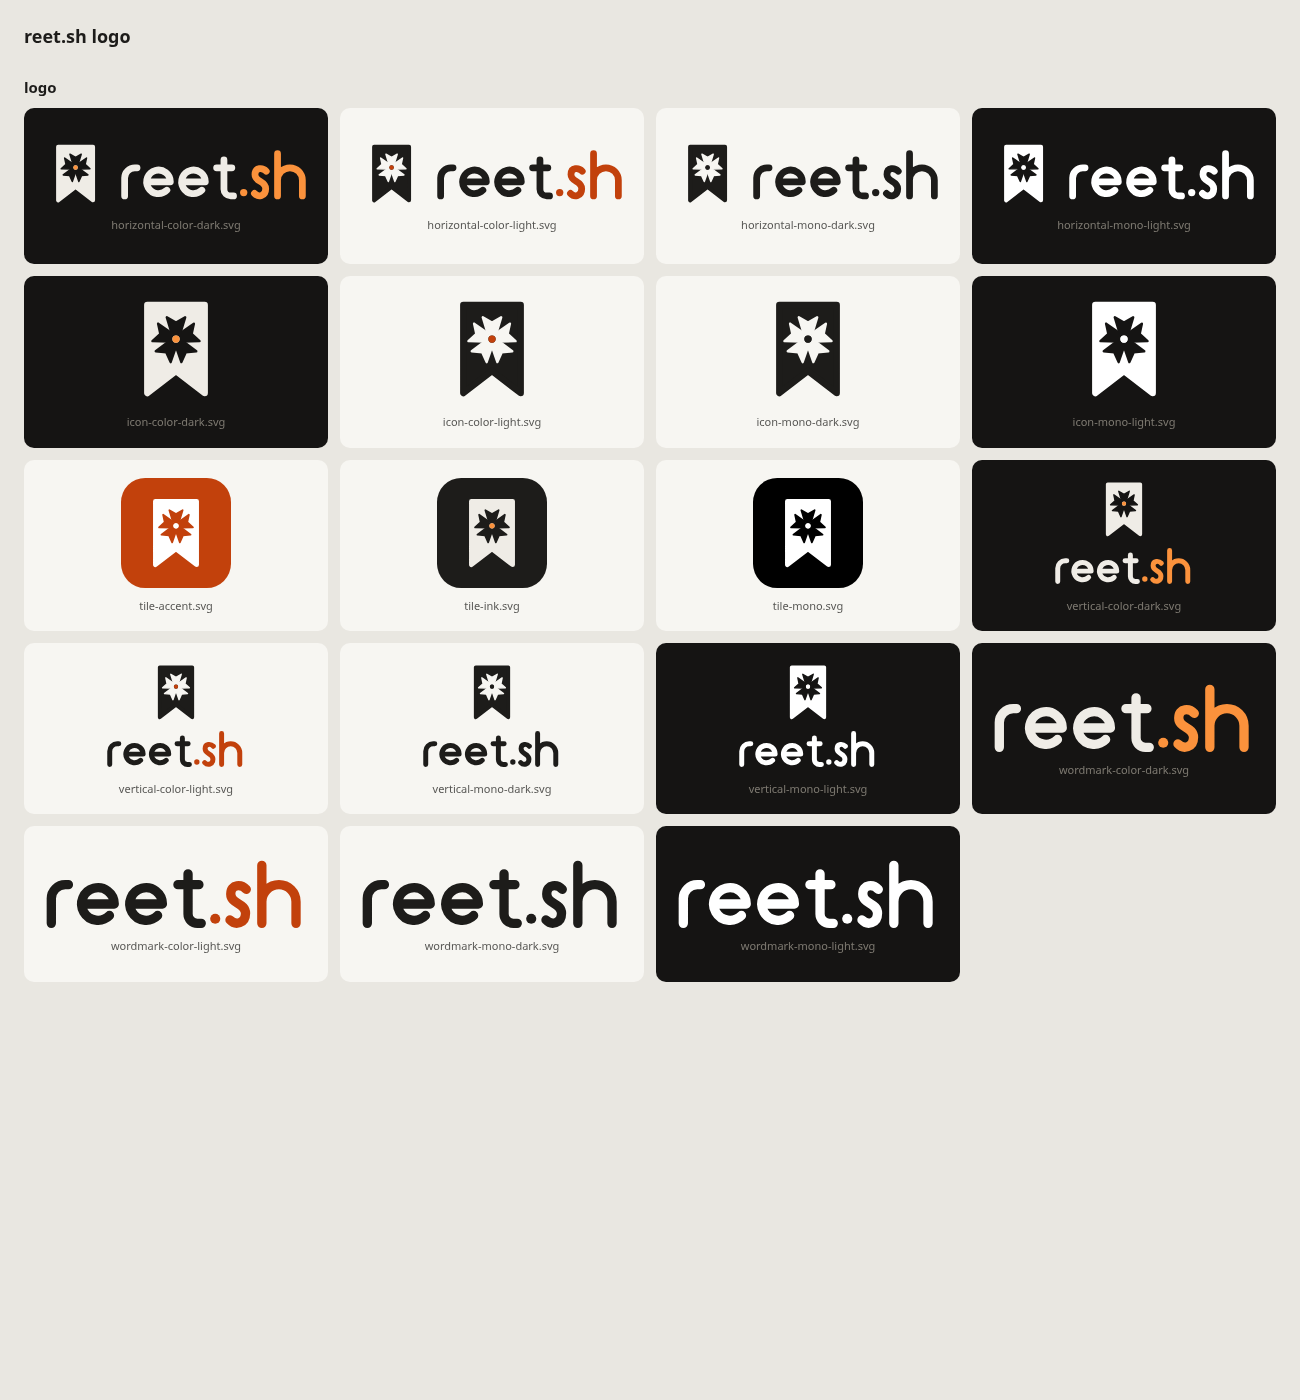
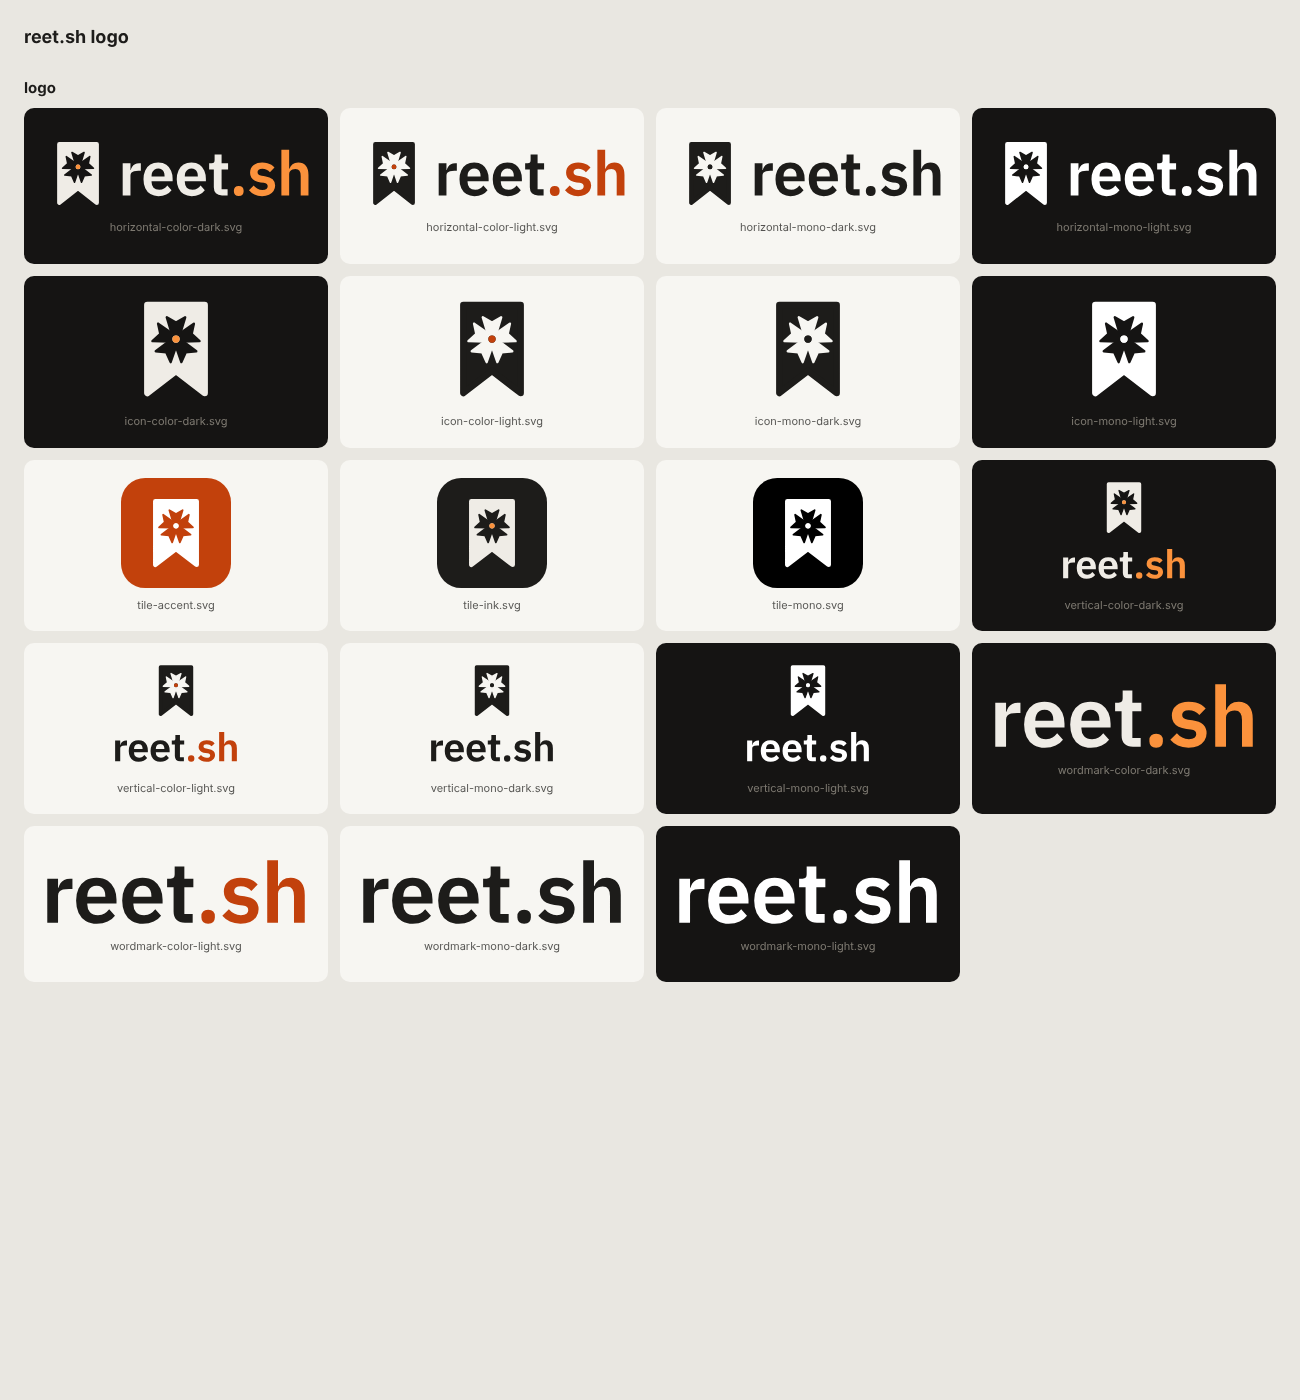
Set the wordmark in IBM Plex Sans SemiBold
The hand-drawn monoline letters shared no metrics: the r and s stood 15%
and 12% taller than the e, the s was 39% narrower, and every letter was
built by a different rule, so the logo read as several typefaces at
several sizes.

Outline the wordmark from IBM Plex Sans SemiBold, the app's UI typeface,
so every letter shares one x-height, stroke weight and rhythm. The
outlines are a generated block in brand/generate.py, written by the new
outline_wordmark.py, so generate.py still needs no font or packages.
generate.py now also rewrites the lockup inlined in the boot shell, which
was a hand-pasted copy that could drift.

Regenerated brand/logo, web/src/lib/logo.svg, the boot shell, the contact
sheet and the OG image. The lockup is narrower (372x100, was 399x100), so
at the unchanged CSS widths the logo renders about 7% larger.

Claude-Session: https://claude.ai/code/session_011MNNzrLzaF8D14bouNkubG

diff --git a/web/index.html b/web/index.html
@@ -267,9 +267,9 @@
     <div id="boot" aria-hidden="true">
       <div class="boot-bar">
         <div class="boot-bar-inner">
-          <span class="boot-brand"><svg xmlns="http://www.w3.org/2000/svg" viewBox="0 0 399 100">
+          <span class="boot-brand"><svg xmlns="http://www.w3.org/2000/svg" viewBox="0 0 372 100">
 <g id="icon"><mask id="rose-boot"><rect width="100" height="100" fill="#fff"/><g transform="translate(50,41) scale(0.44)"><path d="M-9,-12H9L19,-45L0,-34L-19,-45Z" transform="rotate(0)" fill="#000" stroke="#000" stroke-width="5" stroke-linejoin="round"/><path d="M-9,-12H9L19,-45L0,-34L-19,-45Z" transform="rotate(72)" fill="#000" stroke="#000" stroke-width="5" stroke-linejoin="round"/><path d="M-9,-12H9L19,-45L0,-34L-19,-45Z" transform="rotate(144)" fill="#000" stroke="#000" stroke-width="5" stroke-linejoin="round"/><path d="M-9,-12H9L19,-45L0,-34L-19,-45Z" transform="rotate(216)" fill="#000" stroke="#000" stroke-width="5" stroke-linejoin="round"/><path d="M-9,-12H9L19,-45L0,-34L-19,-45Z" transform="rotate(288)" fill="#000" stroke="#000" stroke-width="5" stroke-linejoin="round"/><circle r="13" fill="#000"/><circle r="7.5" fill="#fff"/></g></mask><path mask="url(#rose-boot)" fill="var(--boot-ink)" stroke="var(--boot-ink)" stroke-width="6" stroke-linejoin="round" d="M24,10H76V90L50,70L24,90Z"/><circle cx="50" cy="41" r="3.3" fill="var(--boot-accent)"/></g>
-<g transform="translate(118,20.5) scale(0.42)"><g id="wordmark" fill="none" stroke-width="24" stroke-linecap="round" stroke-linejoin="round"><path stroke="var(--boot-ink)" d="M12,150V86A36,36 0 0 1 48,50H56 M90,100H174A42,42 0 1 0 161.7,129.7 M214,100H298A42,42 0 1 0 285.7,129.7 M364,22V126A24,24 0 0 0 388,150H398 M338,50H392"/><circle fill="var(--boot-accent)" cx="434" cy="138" r="13"/><path stroke="var(--boot-accent)" d="M514,62C502,49 474,47 474,74C474,101 512,96 512,124C512,151 486,156 472,141 M554,0V150M554,94A44,44 0 0 1 642,94V150"/></g></g>
+<g transform="translate(112,17.63) scale(0.44)"><g id="wordmark"><path fill="var(--boot-ink)" d="M24.52 141.76H0V41.76H24.52V62.45H25.48Q26.82 57.09 29.98 52.39Q33.14 47.7 38.6 44.73Q44.06 41.76 51.92 41.76H57.28V64.94H49.62Q41.38 64.94 35.73 66.57Q30.08 68.2 27.3 71.55Q24.52 74.9 24.52 80.46Z M112.75 144.06Q98 144.06 87.46 137.64Q76.93 131.23 71.28 119.44Q65.62 107.66 65.62 91.57Q65.62 75.86 71.18 64.08Q76.74 52.3 87.08 45.88Q97.43 39.46 111.98 39.46Q127.69 39.46 137.75 46.36Q147.81 53.26 152.69 64.66Q157.58 76.05 157.58 89.85V97.89H91.1V100.38Q91.1 111.11 97.23 117.82Q103.36 124.52 115.43 124.52Q124.44 124.52 130.38 120.59Q136.31 116.67 140.91 110.92L154.13 125.67Q148 133.91 137.37 138.98Q126.74 144.06 112.75 144.06ZM112.37 57.85Q105.85 57.85 101.07 60.82Q96.28 63.79 93.69 69.06Q91.1 74.33 91.1 81.23V82.76H132.1V81.03Q132.1 73.95 129.8 68.87Q127.5 63.79 123.1 60.82Q118.69 57.85 112.37 57.85Z M217.65 144.06Q202.9 144.06 192.36 137.64Q181.82 131.23 176.17 119.44Q170.52 107.66 170.52 91.57Q170.52 75.86 176.08 64.08Q181.63 52.3 191.98 45.88Q202.32 39.46 216.88 39.46Q232.59 39.46 242.65 46.36Q252.7 53.26 257.59 64.66Q262.48 76.05 262.48 89.85V97.89H196V100.38Q196 111.11 202.13 117.82Q208.26 124.52 220.33 124.52Q229.33 124.52 235.27 120.59Q241.21 116.67 245.81 110.92L259.03 125.67Q252.9 133.91 242.26 138.98Q231.63 144.06 217.65 144.06ZM217.26 57.85Q210.75 57.85 205.96 60.82Q201.17 63.79 198.59 69.06Q196 74.33 196 81.23V82.76H237V81.03Q237 73.95 234.7 68.87Q232.4 63.79 227.99 60.82Q223.59 57.85 217.26 57.85Z M330.97 141.76H313.35Q300.7 141.76 294.1 135.15Q287.49 128.54 287.49 116.28V61.11H272.74V41.76H280.4Q285.95 41.76 287.97 39.18Q289.98 36.59 289.98 31.42V14.37H312.01V41.76H332.51V61.11H312.01V122.22H330.97Z"/><path fill="var(--boot-accent)" d="M366.14 143.87Q358.48 143.87 354.64 139.85Q350.81 135.82 350.81 129.89V126.44Q350.81 120.31 354.64 116.28Q358.48 112.26 366.14 112.26Q374.18 112.26 377.82 116.28Q381.46 120.31 381.46 126.44V129.89Q381.46 135.82 377.82 139.85Q374.18 143.87 366.14 143.87Z M439.81 144.06Q425.44 144.06 415.67 139.18Q405.9 134.29 398.43 125.67L413.37 111.11Q418.93 117.43 425.54 121.07Q432.15 124.71 440.77 124.71Q449.58 124.71 453.51 121.65Q457.43 118.58 457.43 113.22Q457.43 108.81 454.66 106.23Q451.88 103.64 445.17 102.68L435.21 101.34Q424.48 100 417.01 96.36Q409.54 92.72 405.71 86.4Q401.88 80.08 401.88 71.07Q401.88 56.51 412.32 47.99Q422.76 39.46 439.81 39.46Q449.58 39.46 456.57 41.28Q463.56 43.1 468.93 46.65Q474.29 50.19 478.89 55.17L464.52 69.54Q460.11 64.94 453.98 61.88Q447.85 58.81 440.57 58.81Q432.91 58.81 429.18 61.59Q425.44 64.37 425.44 69.16Q425.44 74.14 428.41 76.72Q431.38 79.31 438.47 80.46L448.62 81.8Q465.1 84.1 473.05 91.48Q481 98.85 481 111.3Q481 120.88 475.92 128.35Q470.84 135.82 461.55 139.94Q452.26 144.06 439.81 144.06Z M500.64 141.76V0H525.16V58.43H526.12Q529.19 50.38 535.8 44.92Q542.41 39.46 554.09 39.46Q569.42 39.46 577.75 49.71Q586.08 59.96 586.08 78.54V141.76H561.56V81.03Q561.56 70.5 557.73 65.04Q553.9 59.58 545.09 59.58Q540.11 59.58 535.51 61.4Q530.91 63.22 528.04 66.76Q525.16 70.31 525.16 75.67V141.76Z"/></g></g>
 </svg></span>
           <div class="boot-nav"><span class="boot-pill"></span><span class="boot-pill wide"></span></div>
         </div>

diff --git a/brand/generate.py b/brand/generate.py
@@ -10,10 +10,10 @@ accent dot at the centre.
 """
 from __future__ import annotations
 
-import math
+import re
 from pathlib import Path
 
-OUT = Path(__file__).resolve().parent / "logo"
+OUT =Path(__file__).resolve().parent / "logo"
 TITLE = "reet.sh"
 
 # Palette: matches web/src/App.svelte CSS variables.
@@ -27,61 +27,21 @@ SCHEMES = {
 }
 
 # ---------------------------------------------------------------- wordmark
-# Monoline geometric lowercase. Units: x-height 100, ascender 150, stroke 24.
-W = 24
-GAP = 16
-
-
-def _pt(cx, cy, r, deg):
-    return cx + r * math.cos(math.radians(deg)), cy + r * math.sin(math.radians(deg))
-
-
-def glyph_r(pen):
-    x = pen + 12
-    return f"M{x},150V86A36,36 0 0 1 {x+36},50H{x+44}", 68
-
-
-def glyph_e(pen):
-    R, cx = 42, pen + 54
-    ex, ey = _pt(cx, 100, R, 45)
-    return f"M{cx-R},100H{cx+R}A{R},{R} 0 1 0 {ex:.1f},{ey:.1f}", 108
-
-
-def glyph_t(pen):
-    xs = pen + 38
-    return f"M{xs},22V126A24,24 0 0 0 {xs+24},150H{xs+34} M{xs-26},50H{xs+28}", 84
-
-
-def glyph_s(pen):
-    # Open bowls and a continuous waist: the old large arcs nearly closed into
-    # two circles once the round stroke caps were applied at small sizes.
-    return (f"M{pen+54},62C{pen+42},49 {pen+14},47 {pen+14},74"
-            f"C{pen+14},101 {pen+52},96 {pen+52},124"
-            f"C{pen+52},151 {pen+26},156 {pen+12},141"), 66
-
-
-def glyph_h(pen):
-    x = pen + 12
-    return f"M{x},0V150M{x},94A44,44 0 0 1 {x+88},94V150", 112
+# "reet.sh" set in IBM Plex Sans SemiBold, the typeface the app's UI is set in (SIL OFL 1.1; the licence ships in
+# web/public/fonts/OFL.txt), converted to outlines so no font is needed. One typeface gives every letter the same
+# x-height, stroke weight and rhythm. Units: x-height 100, origin at the top-left of the ink, y pointing down; WM_BASE
+# is the baseline's y. The block below is written by outline_wordmark.py.
+# BEGIN wordmark paths (written by outline_wordmark.py; do not edit by hand)
+WM_INK = "M24.52 141.76H0V41.76H24.52V62.45H25.48Q26.82 57.09 29.98 52.39Q33.14 47.7 38.6 44.73Q44.06 41.76 51.92 41.76H57.28V64.94H49.62Q41.38 64.94 35.73 66.57Q30.08 68.2 27.3 71.55Q24.52 74.9 24.52 80.46Z M112.75 144.06Q98 144.06 87.46 137.64Q76.93 131.23 71.28 119.44Q65.62 107.66 65.62 91.57Q65.62 75.86 71.18 64.08Q76.74 52.3 87.08 45.88Q97.43 39.46 111.98 39.46Q127.69 39.46 137.75 46.36Q147.81 53.26 152.69 64.66Q157.58 76.05 157.58 89.85V97.89H91.1V100.38Q91.1 111.11 97.23 117.82Q103.36 124.52 115.43 124.52Q124.44 124.52 130.38 120.59Q136.31 116.67 140.91 110.92L154.13 125.67Q148 133.91 137.37 138.98Q126.74 144.06 112.75 144.06ZM112.37 57.85Q105.85 57.85 101.07 60.82Q96.28 63.79 93.69 69.06Q91.1 74.33 91.1 81.23V82.76H132.1V81.03Q132.1 73.95 129.8 68.87Q127.5 63.79 123.1 60.82Q118.69 57.85 112.37 57.85Z M217.65 144.06Q202.9 144.06 192.36 137.64Q181.82 131.23 176.17 119.44Q170.52 107.66 170.52 91.57Q170.52 75.86 176.08 64.08Q181.63 52.3 191.98 45.88Q202.32 39.46 216.88 39.46Q232.59 39.46 242.65 46.36Q252.7 53.26 257.59 64.66Q262.48 76.05 262.48 89.85V97.89H196V100.38Q196 111.11 202.13 117.82Q208.26 124.52 220.33 124.52Q229.33 124.52 235.27 120.59Q241.21 116.67 245.81 110.92L259.03 125.67Q252.9 133.91 242.26 138.98Q231.63 144.06 217.65 144.06ZM217.26 57.85Q210.75 57.85 205.96 60.82Q201.17 63.79 198.59 69.06Q196 74.33 196 81.23V82.76H237V81.03Q237 73.95 234.7 68.87Q232.4 63.79 227.99 60.82Q223.59 57.85 217.26 57.85Z M330.97 141.76H313.35Q300.7 141.76 294.1 135.15Q287.49 128.54 287.49 116.28V61.11H272.74V41.76H280.4Q285.95 41.76 287.97 39.18Q289.98 36.59 289.98 31.42V14.37H312.01V41.76H332.51V61.11H312.01V122.22H330.97Z"
+WM_ACCENT = "M366.14 143.87Q358.48 143.87 354.64 139.85Q350.81 135.82 350.81 129.89V126.44Q350.81 120.31 354.64 116.28Q358.48 112.26 366.14 112.26Q374.18 112.26 377.82 116.28Q381.46 120.31 381.46 126.44V129.89Q381.46 135.82 377.82 139.85Q374.18 143.87 366.14 143.87Z M439.81 144.06Q425.44 144.06 415.67 139.18Q405.9 134.29 398.43 125.67L413.37 111.11Q418.93 117.43 425.54 121.07Q432.15 124.71 440.77 124.71Q449.58 124.71 453.51 121.65Q457.43 118.58 457.43 113.22Q457.43 108.81 454.66 106.23Q451.88 103.64 445.17 102.68L435.21 101.34Q424.48 100 417.01 96.36Q409.54 92.72 405.71 86.4Q401.88 80.08 401.88 71.07Q401.88 56.51 412.32 47.99Q422.76 39.46 439.81 39.46Q449.58 39.46 456.57 41.28Q463.56 43.1 468.93 46.65Q474.29 50.19 478.89 55.17L464.52 69.54Q460.11 64.94 453.98 61.88Q447.85 58.81 440.57 58.81Q432.91 58.81 429.18 61.59Q425.44 64.37 425.44 69.16Q425.44 74.14 428.41 76.72Q431.38 79.31 438.47 80.46L448.62 81.8Q465.1 84.1 473.05 91.48Q481 98.85 481 111.3Q481 120.88 475.92 128.35Q470.84 135.82 461.55 139.94Q452.26 144.06 439.81 144.06Z M500.64 141.76V0H525.16V58.43H526.12Q529.19 50.38 535.8 44.92Q542.41 39.46 554.09 39.46Q569.42 39.46 577.75 49.71Q586.08 59.96 586.08 78.54V141.76H561.56V81.03Q561.56 70.5 557.73 65.04Q553.9 59.58 545.09 59.58Q540.11 59.58 535.51 61.4Q530.91 63.22 528.04 66.76Q525.16 70.31 525.16 75.67V141.76Z"
+WM_W, WM_H, WM_BASE = 586.08, 144.06, 141.76
+# END wordmark paths
 
 
 def wordmark(ink, accent):
     """Returns (inner svg, width, height) for 'reet.sh' in native units."""
-    stroke = f'fill="none" stroke-width="{W}" stroke-linecap="round" stroke-linejoin="round"'
-    ink_paths, acc_paths, pen = [], [], 0
-    d, adv = glyph_r(pen); ink_paths.append(d); pen += adv + GAP - 6
-    d, adv = glyph_e(pen); ink_paths.append(d); pen += adv + GAP
-    d, adv = glyph_e(pen); ink_paths.append(d); pen += adv + GAP
-    d, adv = glyph_t(pen); ink_paths.append(d); pen += adv + GAP - 4
-    dot_x = pen + 12; pen += 24 + GAP - 2
-    d, adv = glyph_s(pen); acc_paths.append(d); pen += adv + GAP
-    d, adv = glyph_h(pen); acc_paths.append(d); pen += adv
-    width = pen + 12
-    g = (f'<g id="wordmark" {stroke}>'
-         f'<path stroke="{ink}" d="{" ".join(ink_paths)}"/>'
-         f'<circle fill="{accent}" cx="{dot_x}" cy="138" r="13"/>'
-         f'<path stroke="{accent}" d="{" ".join(acc_paths)}"/></g>')
-    return g, width, 162
+    g = f'<g id="wordmark"><path fill="{ink}" d="{WM_INK}"/><path fill="{accent}" d="{WM_ACCENT}"/></g>'
+    return g, WM_W, WM_H
 
 
 # -------------------------------------------------------------------- icon
@@ -115,20 +75,22 @@ def svg(vb_w, vb_h, desc, inner):
 
 def layout_horizontal(ink, accent, uid):
     wm, w, _ = wordmark(ink, accent)
-    s = 0.42
-    tw = int(118 + w * s) + 2
+    s, x0 = 0.44, 112                      # x-height 44 against the 100-unit icon; the word starts at x=112
+    ty = 80 - WM_BASE * s                  # baseline at y=80, near the foot of the ribbon
+    tw = round(x0 + w * s) + 2
     inner = (f'<g id="icon">{icon(ink, accent, uid)}</g>\n'
-             f'<g transform="translate(118,{(100 - 150*s)/2 + 2:.1f}) scale({s})">{wm}</g>')
+             f'<g transform="translate({x0},{ty:.2f}) scale({s})">{wm}</g>')
     return svg(tw, 100, "Yorkshire rose in a bookmark, with the reet.sh wordmark to the right.", inner)
 
 
 def layout_vertical(ink, accent, uid):
     wm, w, _ = wordmark(ink, accent)
-    s = 0.33
-    tw = max(100, int(w * s)) + 24
-    inner = (f'<g id="icon" transform="translate({(tw-100)/2:.1f},0)">{icon(ink, accent, uid)}</g>\n'
-             f'<g transform="translate({(tw - w*s)/2:.1f},116) scale({s})">{wm}</g>')
-    return svg(tw, 176, "Yorkshire rose in a bookmark, with the reet.sh wordmark below.", inner)
+    word_w, top = 205, 120                 # the word is 205 wide whatever its length; its ink starts at y=120
+    s = word_w / w
+    tw = word_w + 24
+    inner = (f'<g id="icon" transform="translate({(tw - 100) / 2:.1f},0)">{icon(ink, accent, uid)}</g>\n'
+             f'<g transform="translate({(tw - w * s) / 2:.2f},{top}) scale({s:.4f})">{wm}</g>')
+    return svg(tw, round(top + WM_BASE * s + 16), "Yorkshire rose in a bookmark, with the reet.sh wordmark below.", inner)
 
 
 def layout_icon(ink, accent, uid):
@@ -142,8 +104,25 @@ def layout_tile(ink, accent, tile_bg, uid):
 
 
 def layout_wordmark(ink, accent):
-    wm, w, _ = wordmark(ink, accent)
-    return svg(w + 24, 186, "The reet.sh wordmark.", f'<g transform="translate(12,24)">{wm}</g>')
+    wm, w, h = wordmark(ink, accent)
+    return svg(round(w + 24), round(h + 24), "The reet.sh wordmark.", f'<g transform="translate(12,12)">{wm}</g>')
+
+
+def sync_boot_shell():
+    """Rewrites the lockup inlined in the boot shell of web/index.html (shown before the app bundle loads).
+
+    The boot shell is aria-hidden decoration, so its copy drops the role, title and description, and it is themed
+    by the shell's own --boot-ink / --boot-accent variables.
+    """
+    path = OUT.parent.parent / "web" / "index.html"
+    lockup = layout_horizontal("var(--boot-ink)", "var(--boot-accent)", "boot")
+    lockup = re.sub(r' role="img" aria-labelledby="t d"|<title id="t">.*?</title>\n|<desc id="d">.*?</desc>\n', "", lockup).rstrip("\n")
+    html, n = re.subn(r'(<span class="boot-brand">)<svg.*?</svg>(</span>)', lambda m: m.group(1) + lockup + m.group(2),
+                      path.read_text(), flags=re.S)
+    if n != 1:
+        raise SystemExit(f"could not find the boot-brand lockup in {path}")
+    path.write_text(html)
+    return path
 
 
 def main():
@@ -175,6 +154,7 @@ def main():
     themed = OUT.parent.parent / "web" / "src" / "lib" / "logo.svg"
     themed.write_text(layout_horizontal("var(--ink, #1d1c1a)", "var(--accent, #c2410c)", "theme"))
     files.append(themed)
+    files.append(sync_boot_shell())
     print(f"wrote {len(files)} logo assets")
 
 

diff --git a/brand/outline_wordmark.py b/brand/outline_wordmark.py
@@ -1,0 +1,98 @@
+#!/usr/bin/env python3
+"""Outlines the "reet.sh" wordmark from IBM Plex Sans SemiBold into brand/generate.py.
+
+Developer tool: run it only when the wordmark's typeface, weight or tracking changes.
+
+    pip install fonttools brotli uharfbuzz
+    python3 brand/outline_wordmark.py
+    python3 brand/generate.py
+
+It shapes the text with HarfBuzz (so the font's kerning is honoured), draws every glyph as an SVG path
+in units where the font's x-height is 100, and rewrites the block between the BEGIN/END markers in
+generate.py. generate.py itself needs no font and no third-party packages.
+"""
+from __future__ import annotations
+
+import io
+import re
+from pathlib import Path
+
+import uharfbuzz as hb
+from fontTools.pens.boundsPen import BoundsPen
+from fontTools.pens.svgPathPen import SVGPathPen
+from fontTools.pens.transformPen import TransformPen
+from fontTools.ttLib import TTFont
+
+HERE = Path(__file__).resolve().parent
+FONT = HERE.parent / "web" / "public" / "fonts" / "ibm-plex-sans-latin-600-normal.woff2"
+TARGET = HERE / "generate.py"
+
+TEXT = "reet.sh"
+INK_GLYPHS = 4          # "reet" is drawn in ink, ".sh" in the accent
+TRACKING = -2.0         # extra space between letters, in x-height / 100 units
+XHEIGHT = 100.0
+
+
+def num(v: float) -> str:
+    return ("%.2f" % v).rstrip("0").rstrip(".")
+
+
+def main() -> None:
+    font = TTFont(str(FONT))
+    if font.flavor:  # woff2 -> plain sfnt, which is what HarfBuzz reads
+        font.flavor = None
+        buf = io.BytesIO()
+        font.save(buf)
+        data = buf.getvalue()
+        font = TTFont(io.BytesIO(data))
+    else:
+        data = FONT.read_bytes()
+
+    glyphs = font.getGlyphSet()
+    order = font.getGlyphOrder()
+    scale = XHEIGHT / font["OS/2"].sxHeight
+
+    hbfont = hb.Font(hb.Face(data))
+    shaped = hb.Buffer()
+    shaped.add_str(TEXT)
+    shaped.guess_segment_properties()
+    hb.shape(hbfont, shaped, {"kern": True, "liga": False})
+
+    # Pass 1: pen positions and the ink's bounding box.
+    placed, x = [], 0.0
+    xmin, xmax, top, bottom = 1e9, -1e9, 0.0, 0.0
+    for info, pos in zip(shaped.glyph_infos, shaped.glyph_positions):
+        name = order[info.codepoint]
+        ox = x + pos.x_offset * scale
+        placed.append((name, ox))
+        bp = BoundsPen(glyphs)
+        glyphs[name].draw(TransformPen(bp, (scale, 0, 0, scale, ox, 0)))
+        if bp.bounds:
+            xmin, xmax = min(xmin, bp.bounds[0]), max(xmax, bp.bounds[2])
+            bottom, top = min(bottom, bp.bounds[1]), max(top, bp.bounds[3])
+        x += pos.x_advance * scale + TRACKING
+
+    # Pass 2: draw with the origin at the top-left of the ink, y pointing down.
+    parts = []
+    for name, ox in placed:
+        pen = SVGPathPen(glyphs, ntos=num)
+        glyphs[name].draw(TransformPen(pen, (scale, 0, 0, -scale, ox - xmin, top)))
+        parts.append(pen.getCommands())
+
+    block = (
+        "# BEGIN wordmark paths (written by outline_wordmark.py; do not edit by hand)\n"
+        f'WM_INK = "{" ".join(parts[:INK_GLYPHS])}"\n'
+        f'WM_ACCENT = "{" ".join(parts[INK_GLYPHS:])}"\n'
+        f"WM_W, WM_H, WM_BASE = {num(xmax - xmin)}, {num(top - bottom)}, {num(top)}\n"
+        "# END wordmark paths"
+    )
+    src = TARGET.read_text()
+    out, n = re.subn(r"# BEGIN wordmark paths.*?# END wordmark paths", lambda _: block, src, flags=re.S)
+    if n != 1:
+        raise SystemExit("could not find the BEGIN/END wordmark markers in generate.py")
+    TARGET.write_text(out)
+    print(f"wordmark: {num(xmax - xmin)} x {num(top - bottom)} units, baseline at y={num(top)}")
+
+
+if __name__ == "__main__":
+    main()

diff --git a/brand/README.md b/brand/README.md
@@ -19,8 +19,8 @@ Colours come straight from the web UI (`web/src/App.svelte`):
 
 The ribbon is ink, so on a light page the rose is literally a white rose in a
 dark bookmark; in dark mode the ribbon is cream and the rose shows the dark
-background. The wordmark keeps the header's existing treatment: `reet` in ink,
-`.sh` in the accent, with the dot as a filled accent circle.
+background. The wordmark is IBM Plex Sans SemiBold, the typeface the web UI is
+set in, drawn as outlines: `reet` in ink and `.sh`, dot included, in the accent.
 
 ## Files
 
@@ -87,8 +87,28 @@ python3 brand/generate.py        # rewrites every SVG in brand/logo
 python3 brand/contact-sheet.py   # rebuilds contact-sheet.html
 ```
 
-Letterforms, icon geometry and the colour table all live in `generate.py`.
-Change there, not in the SVGs. The generator also writes `web/src/lib/logo.svg`, the themeable lockup imported by the Svelte header, so the app always uses the same letter geometry as the brand assets. The `s` uses open cubic curves for readable shapes at small sizes.
+Icon geometry, layouts and the colour table live in `generate.py`. Change them
+there, not in the SVGs. The wordmark outlines are a generated block inside
+`generate.py`, written by `outline_wordmark.py` from IBM Plex Sans SemiBold
+(SIL Open Font License 1.1; the licence ships in `web/public/fonts/OFL.txt`).
+To change the weight or tracking, edit that script and run both:
+
+```sh
+pip install fonttools brotli uharfbuzz   # needed by outline_wordmark.py only
+python3 brand/outline_wordmark.py
+python3 brand/generate.py
+```
+
+`generate.py` itself needs no font and no packages. Besides `brand/logo/`, it
+writes the app's copies of the lockup, so the app always uses the same
+geometry as the brand assets:
+
+- `web/src/lib/logo.svg`, the themeable lockup imported by the Svelte header.
+- The inline lockup in the boot shell of `web/index.html`, shown before the
+  app bundle loads.
+
+After regenerating, rebuild `contact-sheet.png` and `web/public/og-image.png`
+(see "Export to PNG" and "Web icons and social image").
 
 ## Web icons and social image
 
